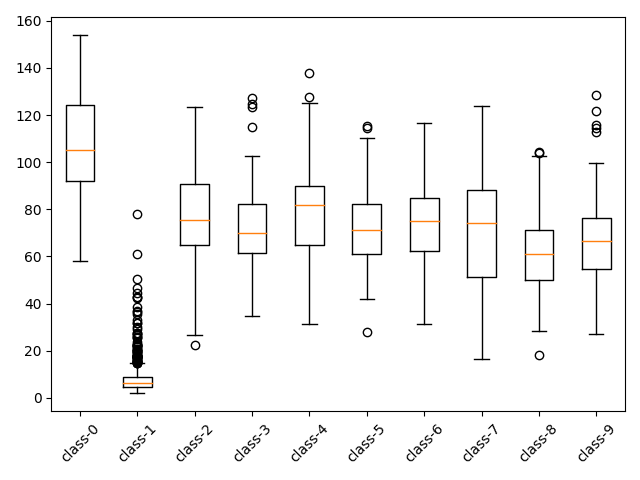
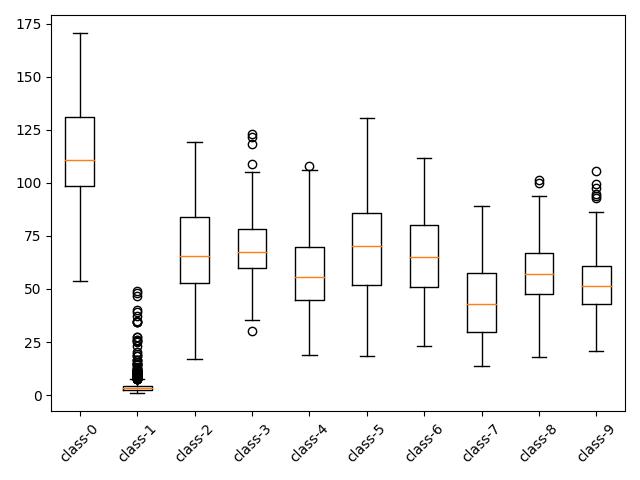
20190916

diff --git a/source/tf_process.py b/source/tf_process.py
@@ -4,6 +4,8 @@ import tensorflow as tf
 import numpy as np
 import matplotlib.pyplot as plt
 
+from sklearn.decomposition import PCA
+
 PACK_PATH = os.path.dirname(os.path.abspath(inspect.getfile(inspect.currentframe())))+"/.."
 
 def make_dir(path):
@@ -66,6 +68,25 @@ def boxplot(contents, savename=""):
     plt.savefig(savename)
     plt.close()
 
+def discrete_cmap(N, base_cmap=None):
+
+    base = plt.cm.get_cmap(base_cmap)
+    color_list = base(np.linspace(0, 1, N))
+    cmap_name = base.name + str(N)
+
+    return base.from_list(cmap_name, color_list, N)
+
+def latent_plot(latent, y, n, savename=""):
+
+    plt.figure(figsize=(6, 5))
+    plt.scatter(latent[:, 0], latent[:, 1], c=y, \
+        marker='o', edgecolor='none', cmap=discrete_cmap(n, 'jet'))
+    plt.colorbar(ticks=range(n))
+    plt.grid()
+    plt.tight_layout()
+    plt.savefig(savename)
+    plt.close()
+
 def training(sess, saver, neuralnet, dataset, epochs, batch_size, normalize=True):
 
     print("\nTraining to %d epochs (%d of minibatch size)" %(epochs, batch_size))
@@ -73,7 +94,7 @@ def training(sess, saver, neuralnet, dataset, epochs, batch_size, normalize=True
     summary_writer = tf.compat.v1.summary.FileWriter(PACK_PATH+'/Checkpoint', sess.graph)
 
     make_dir(path="results")
-    result_list = ["tr_resotring"]
+    result_list = ["tr_resotring", "tr_latent_z", "tr_latent_z_T"]
     for result_name in result_list: make_dir(path=os.path.join("results", result_name))
 
     start_time = time.time()
@@ -89,6 +110,23 @@ def training(sess, saver, neuralnet, dataset, epochs, batch_size, normalize=True
         x_tr, y_tr, _ = dataset.next_train(batch_size=test_size, fix=True) # Initial batch
         x_restore, x_Trestore = sess.run([neuralnet.x_r, neuralnet.x_Tr], \
             feed_dict={neuralnet.x:x_tr, neuralnet.batch_size:x_tr.shape[0]})
+        z_enc, z_T_enc = sess.run([neuralnet.z_pack[0], neuralnet.z_T_pack[0]], \
+            feed_dict={neuralnet.x:x_tr, neuralnet.batch_size:x_tr.shape[0]})
+
+        if(neuralnet.z_dim == 2):
+            latent_plot(latent=z_enc, y=y_tr, n=dataset.num_class, \
+                savename=os.path.join("results", "tr_latent_z", "%08d.png" %(epoch)))
+            latent_plot(latent=z_T_enc, y=y_tr, n=dataset.num_class, \
+                savename=os.path.join("results", "tr_latent_z_T", "%08d.png" %(epoch)))
+        else:
+            pca = PCA(n_components=2)
+            pca_features = pca.fit_transform(z_enc)
+            latent_plot(latent=pca_features, y=y_tr, n=dataset.num_class, \
+                savename=os.path.join("results", "tr_latent_z", "%08d.png" %(epoch)))
+            pca = PCA(n_components=2)
+            pca_features = pca.fit_transform(z_T_enc)
+            latent_plot(latent=pca_features, y=y_tr, n=dataset.num_class, \
+                savename=os.path.join("results", "tr_latent_z_T", "%08d.png" %(epoch)))
 
         save_img(contents=[x_tr, x_restore, (x_tr-x_restore)**2, \
             x_restore, x_Trestore, (x_restore-x_Trestore)**2], \
@@ -134,35 +172,55 @@ def test(sess, saver, neuralnet, dataset, batch_size):
     result_list = ["inbound", "outbound"]
     for result_name in result_list: make_dir(path=os.path.join("test", result_name))
 
-    loss_list = []
+    scores_normal, scores_abnormal = [], []
     while(True):
         x_te, y_te, terminator = dataset.next_test(1) # y_te does not used in this prj.
 
         x_restore, score_anomaly = sess.run([neuralnet.x_r, neuralnet.mse_r], \
             feed_dict={neuralnet.x:x_te, neuralnet.batch_size:x_te.shape[0]})
-        if(y_te[0] == 1):
-            loss_list.append(score_anomaly[0])
+        if(y_te[0] == 1): scores_normal.append(score_anomaly[0])
+        else: scores_abnormal.append(score_anomaly[0])
 
         if(terminator): break
 
-    loss_list = np.asarray(loss_list)
-    loss_avg, loss_std = np.average(loss_list), np.std(loss_list)
-    outbound = loss_avg + (loss_std * 3)
-    print("Loss  avg: %.5f, std: %.5f" %(loss_avg, loss_std))
-    print("Outlier boundary: %.5f" %(outbound))
+    scores_normal = np.asarray(scores_normal)
+    scores_abnormal = np.asarray(scores_abnormal)
+    normal_avg, normal_std = np.average(scores_normal), np.std(scores_normal)
+    abnormal_avg, abnormal_std = np.average(scores_abnormal), np.std(scores_abnormal)
+    print("Noraml  avg: %.5f, std: %.5f" %(normal_avg, normal_std))
+    print("Abnoraml  avg: %.5f, std: %.5f" %(abnormal_avg, abnormal_std))
+    outbound = normal_avg + (normal_std * 3)
+    print("Outlier boundary of normal data: %.5f" %(outbound))
+
+    plt.hist(scores_normal, alpha=0.5, label='Normal')
+    plt.hist(scores_abnormal, alpha=0.5, label='Abnormal')
+    plt.legend(loc='upper right')
+    plt.savefig("histogram-test.png")
+    plt.close()
 
     fcsv = open("test-summary.csv", "w")
     fcsv.write("class, loss, outlier\n")
     testnum = 0
-    z_enc_tot, y_te_tot = None, None
+    z_enc_tot, z_T_enc_tot, y_te_tot = None, None, None
     loss4box = [[], [], [], [], [], [], [], [], [], []]
     while(True):
         x_te, y_te, terminator = dataset.next_test(1) # y_te does not used in this prj.
 
         x_restore, score_anomaly = sess.run([neuralnet.x_r, neuralnet.mse_r], \
             feed_dict={neuralnet.x:x_te, neuralnet.batch_size:x_te.shape[0]})
+        z_enc, z_T_enc = sess.run([neuralnet.z_pack[0], neuralnet.z_T_pack[0]], \
+            feed_dict={neuralnet.x:x_te, neuralnet.batch_size:x_te.shape[0]})
 
         loss4box[y_te[0]].append(score_anomaly)
+
+        if(z_enc_tot is None):
+            z_enc_tot = z_enc
+            z_T_enc_tot = z_T_enc
+            y_te_tot = y_te
+        else:
+            z_enc_tot = np.append(z_enc_tot, z_enc, axis=0)
+            z_T_enc_tot = np.append(z_T_enc_tot, z_T_enc, axis=0)
+            y_te_tot = np.append(y_te_tot, y_te, axis=0)
 
         outcheck = score_anomaly > outbound
         fcsv.write("%d, %.5f, %r\n" %(y_te, score_anomaly, outcheck))
@@ -182,3 +240,18 @@ def test(sess, saver, neuralnet, dataset, batch_size):
         if(terminator): break
 
     boxplot(contents=loss4box, savename="test-box.png")
+
+    if(neuralnet.z_dim == 2):
+        latent_plot(latent=z_enc_tot, y=y_te_tot, n=dataset.num_class, \
+            savename=os.path.join("test-latent_z.png"))
+        latent_plot(latent=z_T_enc_tot, y=y_te_tot, n=dataset.num_class, \
+            savename=os.path.join("test-latent_z_T.png"))
+    else:
+        pca = PCA(n_components=2)
+        pca_features = pca.fit_transform(z_enc_tot)
+        latent_plot(latent=pca_features, y=y_te_tot, n=dataset.num_class, \
+            savename=os.path.join("test-latent_z.png"))
+        pca = PCA(n_components=2)
+        pca_features = pca.fit_transform(z_T_enc_tot)
+        latent_plot(latent=pca_features, y=y_te_tot, n=dataset.num_class, \
+            savename=os.path.join("test-latent_z_T.png"))

diff --git a/source/neuralnet.py b/source/neuralnet.py
@@ -14,8 +14,8 @@ class Self_AVAE(object):
         self.batch_size = tf.placeholder(tf.int32, shape=[])
         # self.lambda_T = tf.placeholder(tf.float32, shape=[])
         # self.lambda_G = tf.placeholder(tf.float32, shape=[])
-        self.lambda_T = 1e-10
-        self.lambda_G = 1e+10
+        self.lambda_T = 1e-22
+        self.lambda_G = 1e+1
 
         self.weights, self.biasis = [], []
         self.w_names, self.b_names = [], []
@@ -48,8 +48,8 @@ class Self_AVAE(object):
             self.max_with_positive_margin(margin=self.mz, loss=self.kld_r) + \
             self.max_with_positive_margin(margin=self.mz, loss=self.kld_Tr)
 
-        self.loss_T_mean = tf.compat.v1.reduce_mean(self.loss_T)
-        self.loss_G_mean = tf.compat.v1.reduce_mean(self.loss_G)
+        self.loss_T_mean = tf.compat.v1.reduce_mean(self.lambda_T * self.loss_T)
+        self.loss_G_mean = tf.compat.v1.reduce_mean(self.lambda_G * self.loss_G)
         self.loss_E_mean = tf.compat.v1.reduce_mean(self.loss_E)
 
         self.loss1 = tf.compat.v1.reduce_mean((self.lambda_T * self.loss_T) + (self.lambda_G * self.loss_G))
@@ -84,6 +84,7 @@ class Self_AVAE(object):
         tf.compat.v1.summary.scalar('loss_tot', self.loss_tot)
         self.summaries = tf.compat.v1.summary.merge_all()
 
+    """For defining loss functions"""
     def mean_square_error(self, x1, x2):
 
         data_dim = len(x1.shape)
@@ -104,6 +105,7 @@ class Self_AVAE(object):
 
         return tf.compat.v1.math.maximum(x=tf.compat.v1.zeros_like(loss), y=(-loss + margin))
 
+    """For buliding neural networks"""
     def build_model(self, input, ksize=3):
 
         with tf.variable_scope('encoder') as scope_enc:
@@ -168,12 +170,8 @@ class Self_AVAE(object):
     def transformer(self, input):
 
         print("\nTransformer-Dense")
-        [n, m] = input.shape
-        fulcon1 = self.fully_connected(input=input, num_inputs=m, \
-            num_outputs=512, activation="elu", name="tra_fullcon1")
-
-        z_params = self.fully_connected(input=fulcon1, num_inputs=int(fulcon1.shape[1]), \
-            num_outputs=self.z_dim*2, activation="None", name="enc_z_sigma")
+        z_params = self.fully_connected(input=input, num_inputs=self.z_dim, \
+            num_outputs=self.z_dim*2, activation="elu", name="tra_fullcon1")
         z_mu, z_sigma = self.split_z(z=z_params)
         z = self.sample_z(mu=z_mu, sigma=z_sigma) # reparameterization trick
 
@@ -218,7 +216,7 @@ class Self_AVAE(object):
     def split_z(self, z):
 
         z_mu = z[:, :self.z_dim]
-        z_mu = tf.compat.v1.clip_by_value(z_mu, -3+(1e-12), 3-(1e-12))
+        # z_mu = tf.compat.v1.clip_by_value(z_mu, -3+(1e-12), 3-(1e-12))
         z_sigma = z[:, self.z_dim:]
         z_sigma = tf.compat.v1.clip_by_value(z_sigma, 1e-12, 1-(1e-12))
 

diff --git a/run.py b/run.py
@@ -32,7 +32,7 @@ if __name__ == '__main__':
     parser.add_argument('--mx', type=int, default=1, help='Positive margin of MSE target.')
     parser.add_argument('--mz', type=int, default=1, help='Positive margin of KLD target.')
     parser.add_argument('--lr', type=int, default=1e-4, help='Learning rate for training')
-    parser.add_argument('--epoch', type=int, default=1000, help='Training epoch')
+    parser.add_argument('--epoch', type=int, default=100, help='Training epoch')
     parser.add_argument('--batch', type=int, default=32, help='Mini batch size')
 
     FLAGS, unparsed = parser.parse_known_args()

diff --git a/README.md b/README.md
@@ -26,6 +26,11 @@ Implementation of 'Self-adversarial Variational Autoencoder with Gaussian Anomal
   <p>Box plot with encoding loss of test procedure.</p>
 </div>
 
+<div align="center">
+  <img src="./figures/test-latent_z.png" width="350"><img src="./figures/test-latent_z_T.png" width="350">
+  <p>Normal latent space, and transformed latent space (regared as abnormal).</p>
+</div>
+
 ## Environment
 * Python 3.7.4  
 * Tensorflow 1.14.0  
